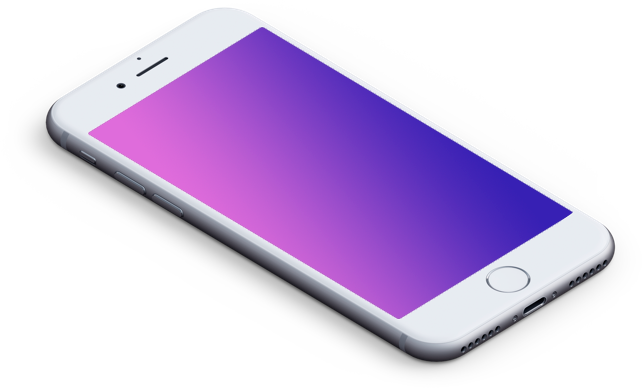
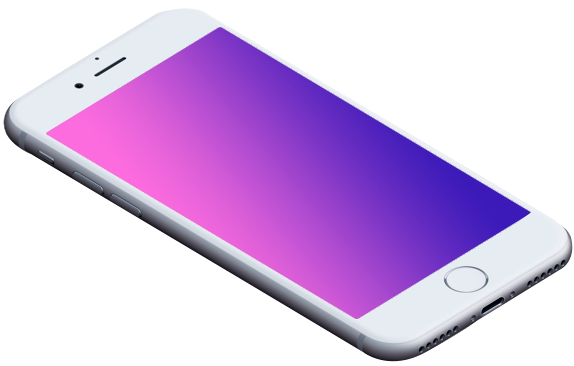
remade the mobile section and stylized

Changed region(s): [[0.0, 0.0301, 1.0, 0.9918], [0.8293, 0.4809, 0.8589, 0.5109], [0.7997, 0.4508, 0.8293, 0.4809]]

diff --git a/style.css b/style.css
@@ -446,26 +446,31 @@ h5{
 .mobile_block>div h2{
     font-size: calc(1.475rem + 2.7vw);
     max-width: 50%;
+    margin: 0 0 30px;
     color: white;
 }
 .mobile_block>div p{
     max-width: 55%;
     color: white;
-    margin-bottom: 30px;
+    margin-bottom: 50px;
+}
+.mobile_block>div:first-of-type{
+    padding-top: 20%;
 }
 .mobile_block>div .mobile_buttons{
     display: flex;
+    margin-bottom: 145px;
 }
 .mobile_phone img:first-of-type{
     position: absolute;
     top: 10%;
-    right: -20%;
+    right: 15%;
     z-index: 5;
 }
 .mobile_phone img:last-of-type{
     position: absolute;
-    top: 60%;
-    right: -15%;
+    top: 30%;
+    right:-13%;
 }
 .mobile_block .main_btn{
     font-weight: 700;
@@ -482,6 +487,15 @@ h5{
 .mobile_block .main_btn:hover{
     background-color: rgba(255, 195, 0, 1);
     border: 1px rgba(255, 195, 0, 1) solid;
+}
+.oval:first-of-type{
+    position: absolute;
+}
+.oval:last-of-type{
+    width: 150px;
+    position: absolute;
+    right: 0;
+    bottom:0;
 }
 
 @media(max-width:700px){
